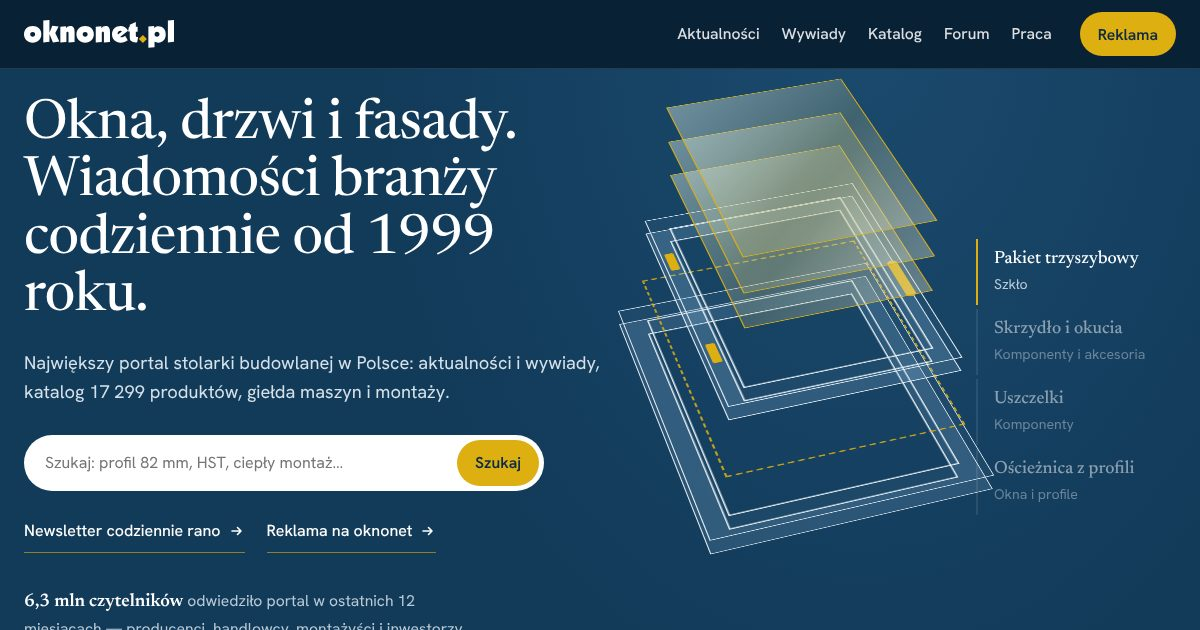
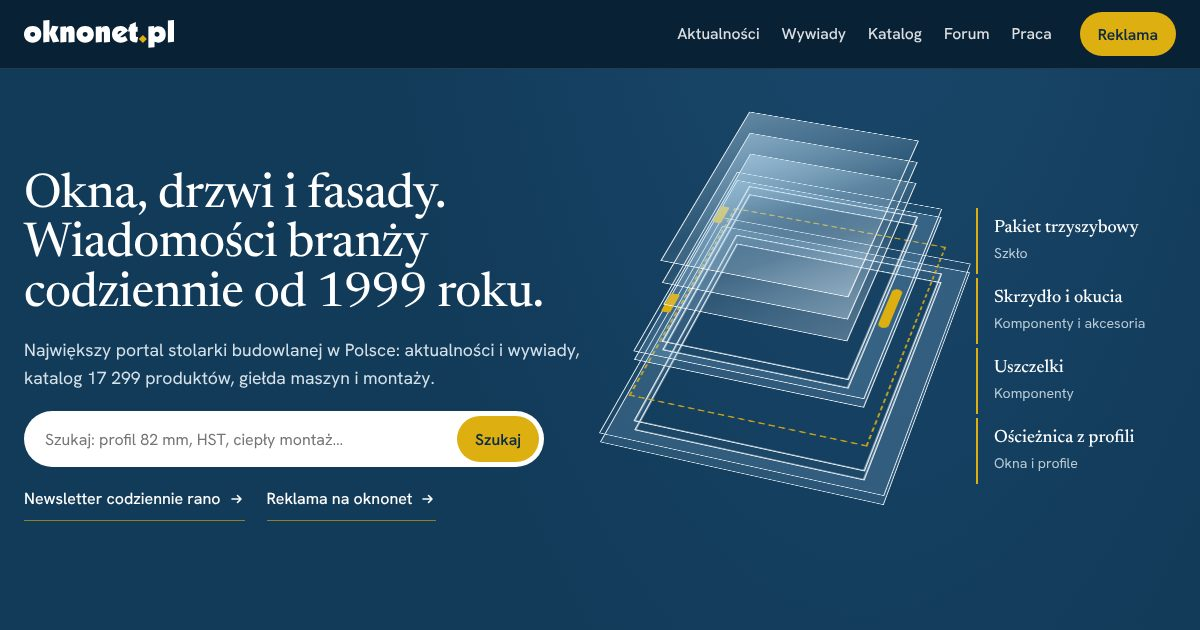
oknonet: W2 najazd kamery do hali, W3 dłuższy i płynniejszy rozkład, tekst hero
Claude-Session: https://claude.ai/code/session_01LQgHPTYGjbwHzXGkPurJFC

diff --git a/p/oknonet-w2/index.html b/p/oknonet-w2/index.html
@@ -46,7 +46,15 @@ h2{font-size:clamp(2.1rem,3.6vw,3.3rem)}
 @media (max-width:420px){.hdr .btn-b{display:none}.mnav{margin-left:auto}.logo{width:126px}}
 /* hero okno */
 .hero{background:var(--wall);position:relative}
-.js .hero{height:220vh}
+.js .hero{height:420vh}
+.js .hero .pin{height:100vh;height:100svh;min-height:0}
+.win{will-change:transform}
+.incap{position:absolute;z-index:3;left:0;right:0;bottom:0;padding:0 0 64px;color:#fff;opacity:0;pointer-events:none}
+html:not(.js) .incap{display:none}
+.incap::before{content:"";position:absolute;inset:-160px 0 0;background:linear-gradient(0deg,rgba(14,22,28,.72),rgba(14,22,28,0));z-index:-1}
+.incap h2{font-size:clamp(2rem,3.6vw,3.2rem);max-width:15em;text-shadow:0 1px 18px rgba(0,0,0,.25)}
+.incap p{max-width:34em;color:#e6edf1;margin:12px 0 20px}
+.incap .btn-l{color:#fff}
 .hero .pin{position:sticky;top:0;min-height:100vh;min-height:100svh;display:flex;align-items:center;padding:calc(var(--hdr-h,66px) + 24px) 0 36px;overflow:hidden}
 .hero .wrap{display:grid;grid-template-columns:5fr 6fr;gap:48px;align-items:center}
 .hero h1{font-size:clamp(2.6rem,5vw,4.8rem)}
@@ -59,7 +67,7 @@ h2{font-size:clamp(2.1rem,3.6vw,3.3rem)}
  box-shadow:0 1px 0 rgba(255,255,255,.4) inset,0 30px 60px -20px rgba(20,30,40,.35),0 0 0 10px #dfe4e7,0 0 0 11px #cfd6da;perspective:2300px}
 .win::after{content:"";position:absolute;left:-26px;right:-26px;bottom:-24px;height:14px;background:#d5dbdf;border-radius:2px;box-shadow:0 6px 14px -6px rgba(0,0,0,.25)}
 .view{position:absolute;inset:var(--fw);overflow:hidden;background:#cfd8de}
-.view img{width:100%;height:100%;object-fit:cover;transform:scale(var(--vz,1));transform-origin:50% 60%;filter:blur(var(--vb,0px)) saturate(var(--vs,1))}
+.view img{width:100%;height:100%;object-fit:cover;transform:translateY(var(--vy,0)) scale(var(--vz,1));transform-origin:50% 60%;filter:blur(var(--vb,0px)) saturate(var(--vs,1))}
 .sash{position:absolute;inset:var(--fw);border:clamp(10px,1.3vw,16px) solid #454d52;border-radius:2px;transform-origin:var(--ox,0%) var(--oy,50%);
  transform:rotateX(var(--rx,0deg)) rotateY(var(--ry,72deg));box-shadow:0 0 0 1px #2e3438,inset 0 0 0 1px rgba(255,255,255,.08),12px 16px 30px -12px rgba(0,0,0,.4);transform-style:preserve-3d;will-change:transform}
 .glass{position:absolute;inset:0;background:linear-gradient(115deg,rgba(255,255,255,.78) 0%,rgba(228,238,245,.6) 28%,rgba(255,255,255,.18) 44%,rgba(255,255,255,.3) 50%,rgba(214,228,238,.5) 64%,rgba(255,255,255,.72) 100%);
@@ -70,7 +78,7 @@ h2{font-size:clamp(2.1rem,3.6vw,3.3rem)}
 .handle::after{content:"";position:absolute;left:-2px;top:-2px;width:16px;height:16px;border-radius:50%;background:#e6eaec;box-shadow:0 1px 3px rgba(0,0,0,.35)}
 .hint{position:absolute;left:50%;bottom:22px;transform:translateX(-50%);width:120px;height:2px;background:rgba(0,0,0,.1);opacity:var(--hi,0)}
 .hint i{display:block;height:100%;background:var(--blue);transform-origin:0 50%;transform:scaleX(var(--p,0))}
-@media (max-width:900px){.hero .wrap{grid-template-columns:1fr;gap:22px}.scene{order:-1}.win{height:40svh;width:auto}.hero h1{font-size:clamp(2rem,8.2vw,2.6rem)}.hero .lead{font-size:1.02rem;margin:12px 0 16px}.js .hero{height:190vh}
+@media (max-width:900px){.hero .wrap{grid-template-columns:1fr;gap:22px}.scene{order:-1}.win{height:40svh;width:auto}.hero h1{font-size:clamp(2rem,8.2vw,2.6rem)}.hero .lead{font-size:1.02rem;margin:12px 0 16px}.js .hero{height:360vh}
  .hero .pin{align-items:start}.hero .after{display:none}}
 /* sekcje */
 .sec{padding:100px 0}
@@ -200,7 +208,7 @@ footer nav{display:flex;flex-wrap:wrap;gap:8px 22px}footer a{text-decoration:non
 <div class="view"><picture><source media="(max-width:760px)" srcset="img/widok-900.webp"><img src="img/widok-1600.webp" alt="" width="1600" height="1770" fetchpriority="high"></picture></div>
 <div class="sash"><div class="glass"></div><div class="handle"></div></div>
 </div></div>
-</div><div class="hint" aria-hidden="true"><i></i></div></div></section>
+</div><div class="incap"><div class="wrap"><h2>Tak wygląda branża od środka.</h2><p>O producentach, maszynach, montażu i ludziach stolarki piszemy codziennie od 1999 roku.</p><div class="acts"><a class="btn btn-b" href="#aktualnosci">Czytaj aktualności</a><a class="btn btn-l" href="#wejscia">Czego szukasz?</a></div></div></div><div class="hint" aria-hidden="true"><i></i></div></div></section>
 
 <section class="sec dark" id="wejscia"><div class="wrap" id="tresc">
 <div class="head"><h2 data-words>Po co przychodzisz?</h2></div>
@@ -266,22 +274,40 @@ d.querySelectorAll('.mnav a').forEach(function(a){a.addEventListener('click',fun
 })();
 
 (function(){
-var hero=document.querySelector('.hero'),pin=hero.querySelector('.pin'),sash=hero.querySelector('.sash'),win=hero.querySelector('.win'),intro=0;
+var hero=document.querySelector('.hero'),pin=hero.querySelector('.pin'),sash=hero.querySelector('.sash'),win=hero.querySelector('.win'),vw=win.querySelector('.view'),txt=hero.querySelector('.hero .wrap>div:first-child'),cap=hero.querySelector('.incap'),intro=0;
 if(matchMedia('(prefers-reduced-motion: reduce)').matches)return;
-function cl(x){return x<0?0:x>1?1:x}function e(x){return x<.5?2*x*x:1-Math.pow(-2*x+2,2)/2}
+function cl(x){return x<0?0:x>1?1:x}function e(x){return x<.5?2*x*x:1-Math.pow(-2*x+2,2)/2}function e3(x){return x<.5?4*x*x*x:1-Math.pow(-2*x+2,3)/2}
 function set(n,v){hero.style.setProperty(n,v)}
-function upd(){var r=hero.getBoundingClientRect(),tot=hero.offsetHeight-pin.offsetHeight;var p=tot>0?cl(-r.top/(tot*.9)):1;
-set('--p',p.toFixed(3));set('--hi',p<.95?1:0);
+var geo=null;function measure(){var t=win.style.transform;win.style.transform='none';var r=vw.getBoundingClientRect(),pr=pin.getBoundingClientRect();
+geo={cx:r.left+r.width/2-pr.left,cy:r.top+r.height/2-pr.top,w:r.width,h:r.height,ox:vw.offsetLeft+vw.offsetWidth/2,oy:vw.offsetTop+vw.offsetHeight/2};win.style.transform=t}
+function target(){var r=hero.getBoundingClientRect(),tot=hero.offsetHeight-pin.offsetHeight;return tot>0?cl(-r.top/(tot*.94)):1}
+var cur=0,tgt=0,run=false;
+function render(p){
+set('--p',p.toFixed(3));set('--hi',p<.97?1:0);
 var hd,rx=0,ry=0,ox='0%',oy='50%';
-if(p<.08){hd=e(p/.08)*180}else if(p<.36){hd=180;var t=p<.22?e((p-.08)/.14):1-e((p-.22)/.14);rx=-15*t}
-else if(p<.42){hd=180-90*e((p-.36)/.06)}else{hd=90;ry=-66*e(cl((p-.42)/.33))}
-if(p>=.36){ox='0%';oy='50%'}else{ox='50%';oy='100%'}
-if(p<.08){rx=Math.min(rx,-5*intro)}
+if(p<.06){hd=e(p/.06)*180}else if(p<.25){hd=180;var t=p<.155?e((p-.06)/.095):1-e((p-.155)/.095);rx=-15*t}
+else if(p<.29){hd=180-90*e((p-.25)/.04)}else{hd=90;ry=-68*e(cl((p-.29)/.2))}
+if(p>=.25){ox='0%';oy='50%'}else{ox='50%';oy='100%'}
+if(p<.06){rx=Math.min(rx,-5*intro)}
 sash.style.setProperty('--hd',hd.toFixed(1)+'deg');sash.style.setProperty('--rx',rx.toFixed(2)+'deg');sash.style.setProperty('--ry',ry.toFixed(2)+'deg');sash.style.setProperty('--ox',ox);sash.style.setProperty('--oy',oy);
-var vw=win.querySelector('.view');var op=e(cl((p-.42)/.3));var tl=(p>.08&&p<.36)?Math.sin(Math.PI*(p-.08)/.28):0;vw.style.setProperty('--vz',(1.14-.14*e(cl((p-.45)/.5))).toFixed(4));vw.style.setProperty('--vb',((1-op)*(1.4-.9*tl)).toFixed(2)+'px');vw.style.setProperty('--vs',(.75+.25*op).toFixed(3));
-set('--af',e(cl((p-.62)/.18)).toFixed(3));}
-var tk=false;addEventListener('scroll',function(){if(!tk){tk=true;requestAnimationFrame(function(){tk=false;upd()})}},{passive:true});addEventListener('resize',upd);upd();
-var t0=null;function it(ts){if(t0===null)t0=ts;var x=(ts-t0)/1400;intro=x<1?Math.sin(Math.PI*cl(x)):0;upd();if(x<1)requestAnimationFrame(it)}setTimeout(function(){requestAnimationFrame(it)},500);
+var op=e(cl((p-.29)/.18)),tl=(p>.06&&p<.25)?Math.sin(Math.PI*(p-.06)/.19):0;
+/* kamera: najazd przez otwarte okno do hali */
+if(!geo)measure();var W=pin.clientWidth,H=pin.clientHeight;
+var S=Math.max(W/geo.w,H/geo.h)*1.14,z=e3(cl((p-.5)/.32));
+var sc=Math.pow(S,z),tx=(W/2-geo.cx)*z,ty=(H/2-geo.cy)*z;
+win.style.transformOrigin=geo.ox+'px '+geo.oy+'px';sash.style.opacity=(1-e(cl((z-.35)/.45))).toFixed(3);win.style.transform='translate('+tx.toFixed(1)+'px,'+ty.toFixed(1)+'px) scale('+sc.toFixed(4)+')';
+var inside=e(cl((p-.8)/.2));
+vw.style.setProperty('--vz',(1.14-.14*e(cl((p-.3)/.25))+.07*inside).toFixed(4));
+vw.style.setProperty('--vy',(-3*inside).toFixed(2)+'%');
+vw.style.setProperty('--vb',((1-op)*(1.4-.9*tl)).toFixed(2)+'px');vw.style.setProperty('--vs',(.75+.25*op).toFixed(3));
+var f=1-e(cl((p-.46)/.1));txt.style.opacity=f.toFixed(3);txt.style.transform='translateY('+((1-f)*-24).toFixed(1)+'px)';txt.style.pointerEvents=f<.4?'none':'';
+set('--af',(e(cl((p-.3)/.12))*f).toFixed(3));
+cap.style.opacity=e(cl((p-.84)/.1)).toFixed(3);cap.style.transform='translateY('+((1-e(cl((p-.84)/.1)))*16).toFixed(1)+'px)';cap.style.pointerEvents=p>.86?'auto':'none';}
+function loop(){var d=tgt-cur;cur=Math.abs(d)<.0004?tgt:cur+d*.11;render(cur);if(cur!==tgt||intro>0&&intro<1){requestAnimationFrame(loop)}else run=false}
+function kick(){tgt=target();if(!run){run=true;requestAnimationFrame(loop)}}
+addEventListener('scroll',kick,{passive:true});addEventListener('resize',function(){geo=null;kick()});addEventListener('load',function(){geo=null;kick()});
+tgt=cur=target();render(cur);
+var t0=null;function it(ts){if(t0===null)t0=ts;var x=(ts-t0)/1400;intro=x<1?Math.sin(Math.PI*cl(x)):0;render(cur);if(x<1)requestAnimationFrame(it)}setTimeout(function(){requestAnimationFrame(it)},500);
 })();</script>
 </body>
 </html>

diff --git a/p/oknonet-w3/index.html b/p/oknonet-w3/index.html
@@ -48,22 +48,23 @@ h2{font-size:clamp(2rem,3.4vw,3.2rem);line-height:1.08}
 @media (max-width:420px){.hdr .btn-y{display:none}.mnav{margin-left:auto}.logo{width:128px}}
 /* hero */
 .hero{background:radial-gradient(60% 70% at 72% 50%,#1b4a6e 0%,var(--navy) 70%);color:#fff;position:relative}
-.js .hero{height:230vh}
-.hero .pin{position:sticky;top:0;min-height:100vh;display:flex;align-items:center;padding:calc(var(--hdr-h,68px) + 28px) 0 40px}
+.js .hero{height:380vh}
+.hero .pin{position:sticky;top:0;min-height:100vh;display:flex;align-items:center;padding:calc(var(--hdr-h,68px) + min(28px,3vh)) 0 min(40px,4vh)}
+@media (min-width:901px) and (max-height:760px){.hero .note{display:none}}
 .hero .wrap{display:grid;grid-template-columns:1.05fr .95fr;gap:40px;align-items:center}
-.hero h1{font-size:clamp(2.5rem,4.6vw,4.4rem);line-height:1.04;font-weight:450}
-.hero .lead{font-size:1.14rem;color:#d6e2ea;max-width:34em;margin:22px 0 28px}
+.hero h1{font-size:clamp(2.3rem,min(4.4vw,7.6vh),4.4rem);line-height:1.04;font-weight:450}
+.hero .lead{font-size:1.1rem;color:#d6e2ea;max-width:34em;margin:min(22px,2.4vh) 0 min(26px,3vh)}
 .srch{display:flex;max-width:520px;background:#fff;border-radius:999px;padding:5px;gap:6px}
 .srch input{flex:1;border:0;background:transparent;font:1rem var(--sans);padding:0 16px;min-height:46px;color:var(--ink);min-width:0}
 .srch input:focus{outline:none}.srch:focus-within{box-shadow:0 0 0 3px var(--y)}
-.hero .more{display:flex;gap:22px;flex-wrap:wrap;margin-top:22px;font-weight:500}
+.hero .more{display:flex;gap:22px;flex-wrap:wrap;margin-top:min(20px,2.2vh);font-weight:500}
 .hero .more a{display:inline-flex;gap:8px;align-items:center;text-decoration:none;color:#fff;border-bottom:1px solid rgba(221,175,17,.6);padding-bottom:3px}
-.hero .note{margin-top:34px;color:#b9cad6;font-size:.98rem;max-width:30em}.hero .note b{color:#fff;font-family:var(--serif);font-weight:600;font-size:1.15rem}
+.hero .note{margin-top:min(30px,3.2vh);color:#b9cad6;font-size:.98rem;max-width:30em}.hero .note b{color:#fff;font-family:var(--serif);font-weight:600;font-size:1.15rem}
 .x3d{position:relative;height:min(74vh,680px);max-height:calc(100vh - var(--hdr-h,68px) - 70px);display:grid;grid-template-columns:1fr 200px;align-items:center;gap:8px}
 .stage{position:relative;height:100%;perspective:1700px;display:grid;place-items:center;padding-top:50px;margin-right:24px}.legend{position:relative;z-index:2}
-.rig{--s:1.1;position:relative;width:calc(250px*var(--s));height:calc(320px*var(--s));transform-style:preserve-3d;transform:rotateX(var(--ax,56deg)) rotateZ(var(--az,-36deg));will-change:transform}
+.rig{--s:1.1;position:relative;width:calc(250px*var(--s));height:calc(320px*var(--s));transform-style:preserve-3d;transform:translateY(var(--lift,0px)) rotateX(var(--ax,56deg)) rotateZ(var(--az,-36deg));will-change:transform}
 .ly{position:absolute;inset:0;transform-style:preserve-3d;transform:translateZ(calc(var(--z)*var(--sp,1)*var(--s)*1px))}
-.pl{position:absolute;inset:0;box-sizing:border-box;transition:border-color .45s,background-color .45s,box-shadow .45s,outline-color .45s}
+.pl{position:absolute;inset:0;box-sizing:border-box;transition:border-color .6s,background-color .6s,box-shadow .6s,outline-color .6s}
 .pl.fr{border:calc(22px*var(--s)) solid rgba(150,196,230,.17);outline:1.5px solid #eaf1f6;box-shadow:inset 0 0 0 1.5px #eaf1f6}
 .pl.fr.ln2{background:none;border-color:rgba(150,196,230,.06)}
 .pl.gk{inset:calc(20px*var(--s));border:2px dashed rgba(221,175,17,.85)}
@@ -347,20 +348,32 @@ d.querySelectorAll('.mnav a').forEach(function(a){a.addEventListener('click',fun
 var hdr=document.querySelector('.hdr');addEventListener('scroll',function(){hdr.classList.toggle('sc',scrollY>10)},{passive:true});
 var hero=document.querySelector('.hero'),rig=document.querySelector('.rig');if(!rig)return;
 var rm=matchMedia('(prefers-reduced-motion: reduce)').matches;if(rm)return;
-var lys=rig.querySelectorAll('.ly'),lis=document.querySelectorAll('.legend li'),intro=0,t0=null,auto=0,lastG=-2;
-function cl(x){return x<0?0:x>1?1:x}function ease(x){return x<.5?4*x*x*x:1-Math.pow(-2*x+2,3)/2}
+var lys=rig.querySelectorAll('.ly'),lis=document.querySelectorAll('.legend li'),intro=0,t0=null,auto=0,lastG=-2,clock=0;
+function cl(x){return x<0?0:x>1?1:x}function ease(x){return x<.5?4*x*x*x:1-Math.pow(-2*x+2,3)/2}function es(x){return x<.5?2*x*x:1-Math.pow(-2*x+2,2)/2}
 function mob(){return innerWidth<=900}
-function sp(){if(mob())return 0;var r=hero.getBoundingClientRect();var tot=hero.offsetHeight-innerHeight;return tot>0?cl(-r.top/(tot*.9)):1}
+function target(){if(mob())return 0;var r=hero.getBoundingClientRect();var tot=hero.offsetHeight-innerHeight;return tot>0?cl(-r.top/(tot*.94)):1}
 function hot(g){if(g===lastG)return;lastG=g;lys.forEach(function(l){l.classList.toggle('hot',l.classList.contains('g'+g))});lis.forEach(function(li){li.classList.toggle('on',+li.dataset.g===g||g<0)})}
-function draw(){var p=sp(),i=ease(intro);
-var spread=mob()?.18+.82*i:Math.max(.12*i,ease(cl(p/.5)));
-var ax=56*i-6*ease(cl((p-.5)/.45)),az=-36*i+18*ease(cl((p-.5)/.45));
-rig.style.setProperty('--sp',spread.toFixed(3));rig.style.setProperty('--ax',ax.toFixed(2)+'deg');rig.style.setProperty('--az',az.toFixed(2)+'deg');
-if(mob()){hot(intro<1?-1:auto)}else{hot(p<.18?-1:Math.min(3,Math.floor((p-.18)/.2)))}}
-function intr(ts){if(t0===null)t0=ts;intro=cl((ts-t0)/1700);draw();if(intro<1)requestAnimationFrame(intr)}
-draw();setTimeout(function(){requestAnimationFrame(intr)},250);
-setInterval(function(){if(mob()&&intro>=1){auto=(auto+3)%4;lastG=-2;draw()}},1700);
-var tk=false;addEventListener('scroll',function(){if(!tk){tk=true;requestAnimationFrame(function(){tk=false;draw()})}},{passive:true});addEventListener('resize',draw);
+var cur=0,tgt=0,run=false;
+function render(p){var i=ease(intro);
+var spread,ax,az,lift;
+if(mob()){var w=Math.sin(clock*.6);spread=.2+.8*i+.06*w;ax=56*i;az=-36*i+6*w*i;lift=0}
+else{
+ /* 0–.38 rozkład, .3–.8 obrót dookoła, .8–1 warstwy schodzą się z powrotem do okna */
+ spread=Math.max(.12*i,es(cl(p/.38)))*(1-.85*es(cl((p-.82)/.18)));
+ var rot=es(cl((p-.3)/.5));
+ ax=56*i-14*rot+18*es(cl((p-.82)/.18));
+ az=-36*i+64*rot-28*es(cl((p-.82)/.18));
+ lift=-30*es(cl((p-.3)/.5))+30*es(cl((p-.82)/.18));}
+rig.style.setProperty('--sp',spread.toFixed(4));rig.style.setProperty('--ax',ax.toFixed(3)+'deg');rig.style.setProperty('--az',az.toFixed(3)+'deg');rig.style.setProperty('--lift',lift.toFixed(1)+'px');
+if(mob()){hot(intro<1?-1:auto)}else{hot(p<.14?-1:p>.84?-1:Math.min(3,Math.floor((p-.14)/.175)))}}
+function loop(){var d=tgt-cur;cur=Math.abs(d)<.0003?tgt:cur+d*.085;render(cur);if(cur!==tgt){requestAnimationFrame(loop)}else run=false}
+function kick(){tgt=target();if(!run){run=true;requestAnimationFrame(loop)}}
+tgt=cur=target();render(cur);
+function intr(ts){if(t0===null)t0=ts;intro=cl((ts-t0)/2000);render(cur);if(intro<1)requestAnimationFrame(intr)}
+setTimeout(function(){requestAnimationFrame(intr)},250);
+setInterval(function(){if(mob()&&intro>=1){auto=(auto+3)%4;lastG=-2;render(cur)}},1800);
+(function idle(){clock+=.016;if(mob()&&intro>=1)render(cur);requestAnimationFrame(idle)})();
+addEventListener('scroll',kick,{passive:true});addEventListener('resize',kick);
 })();</script>
 </body>
 </html>
